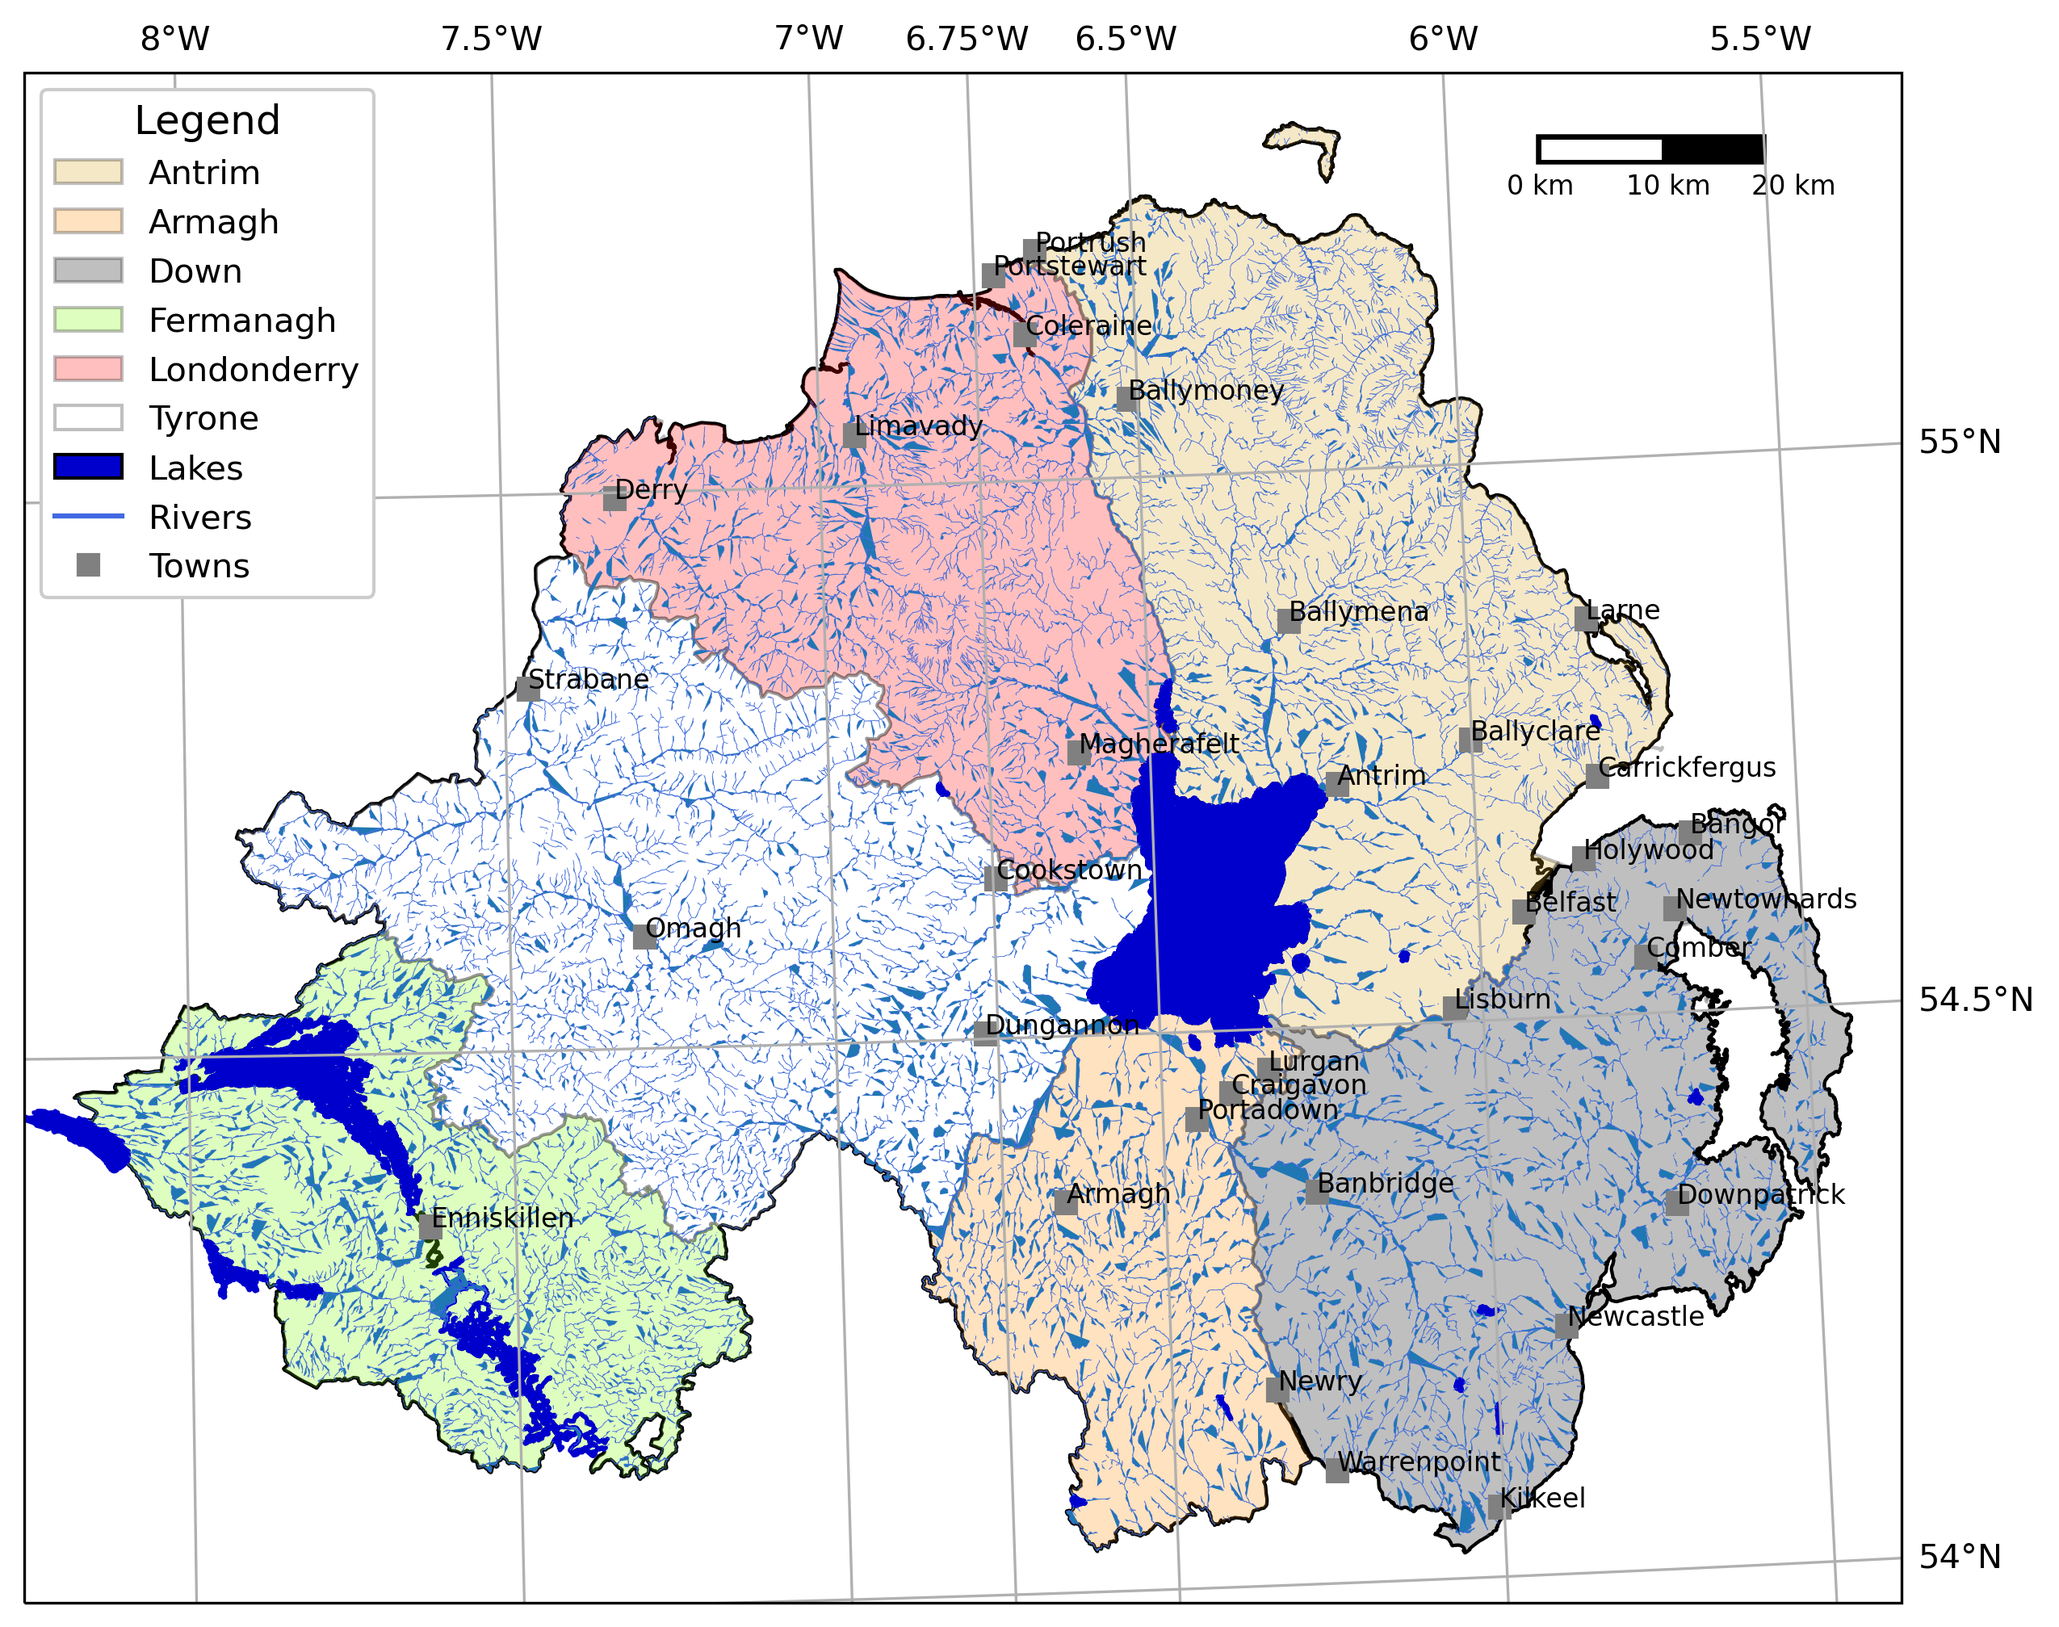
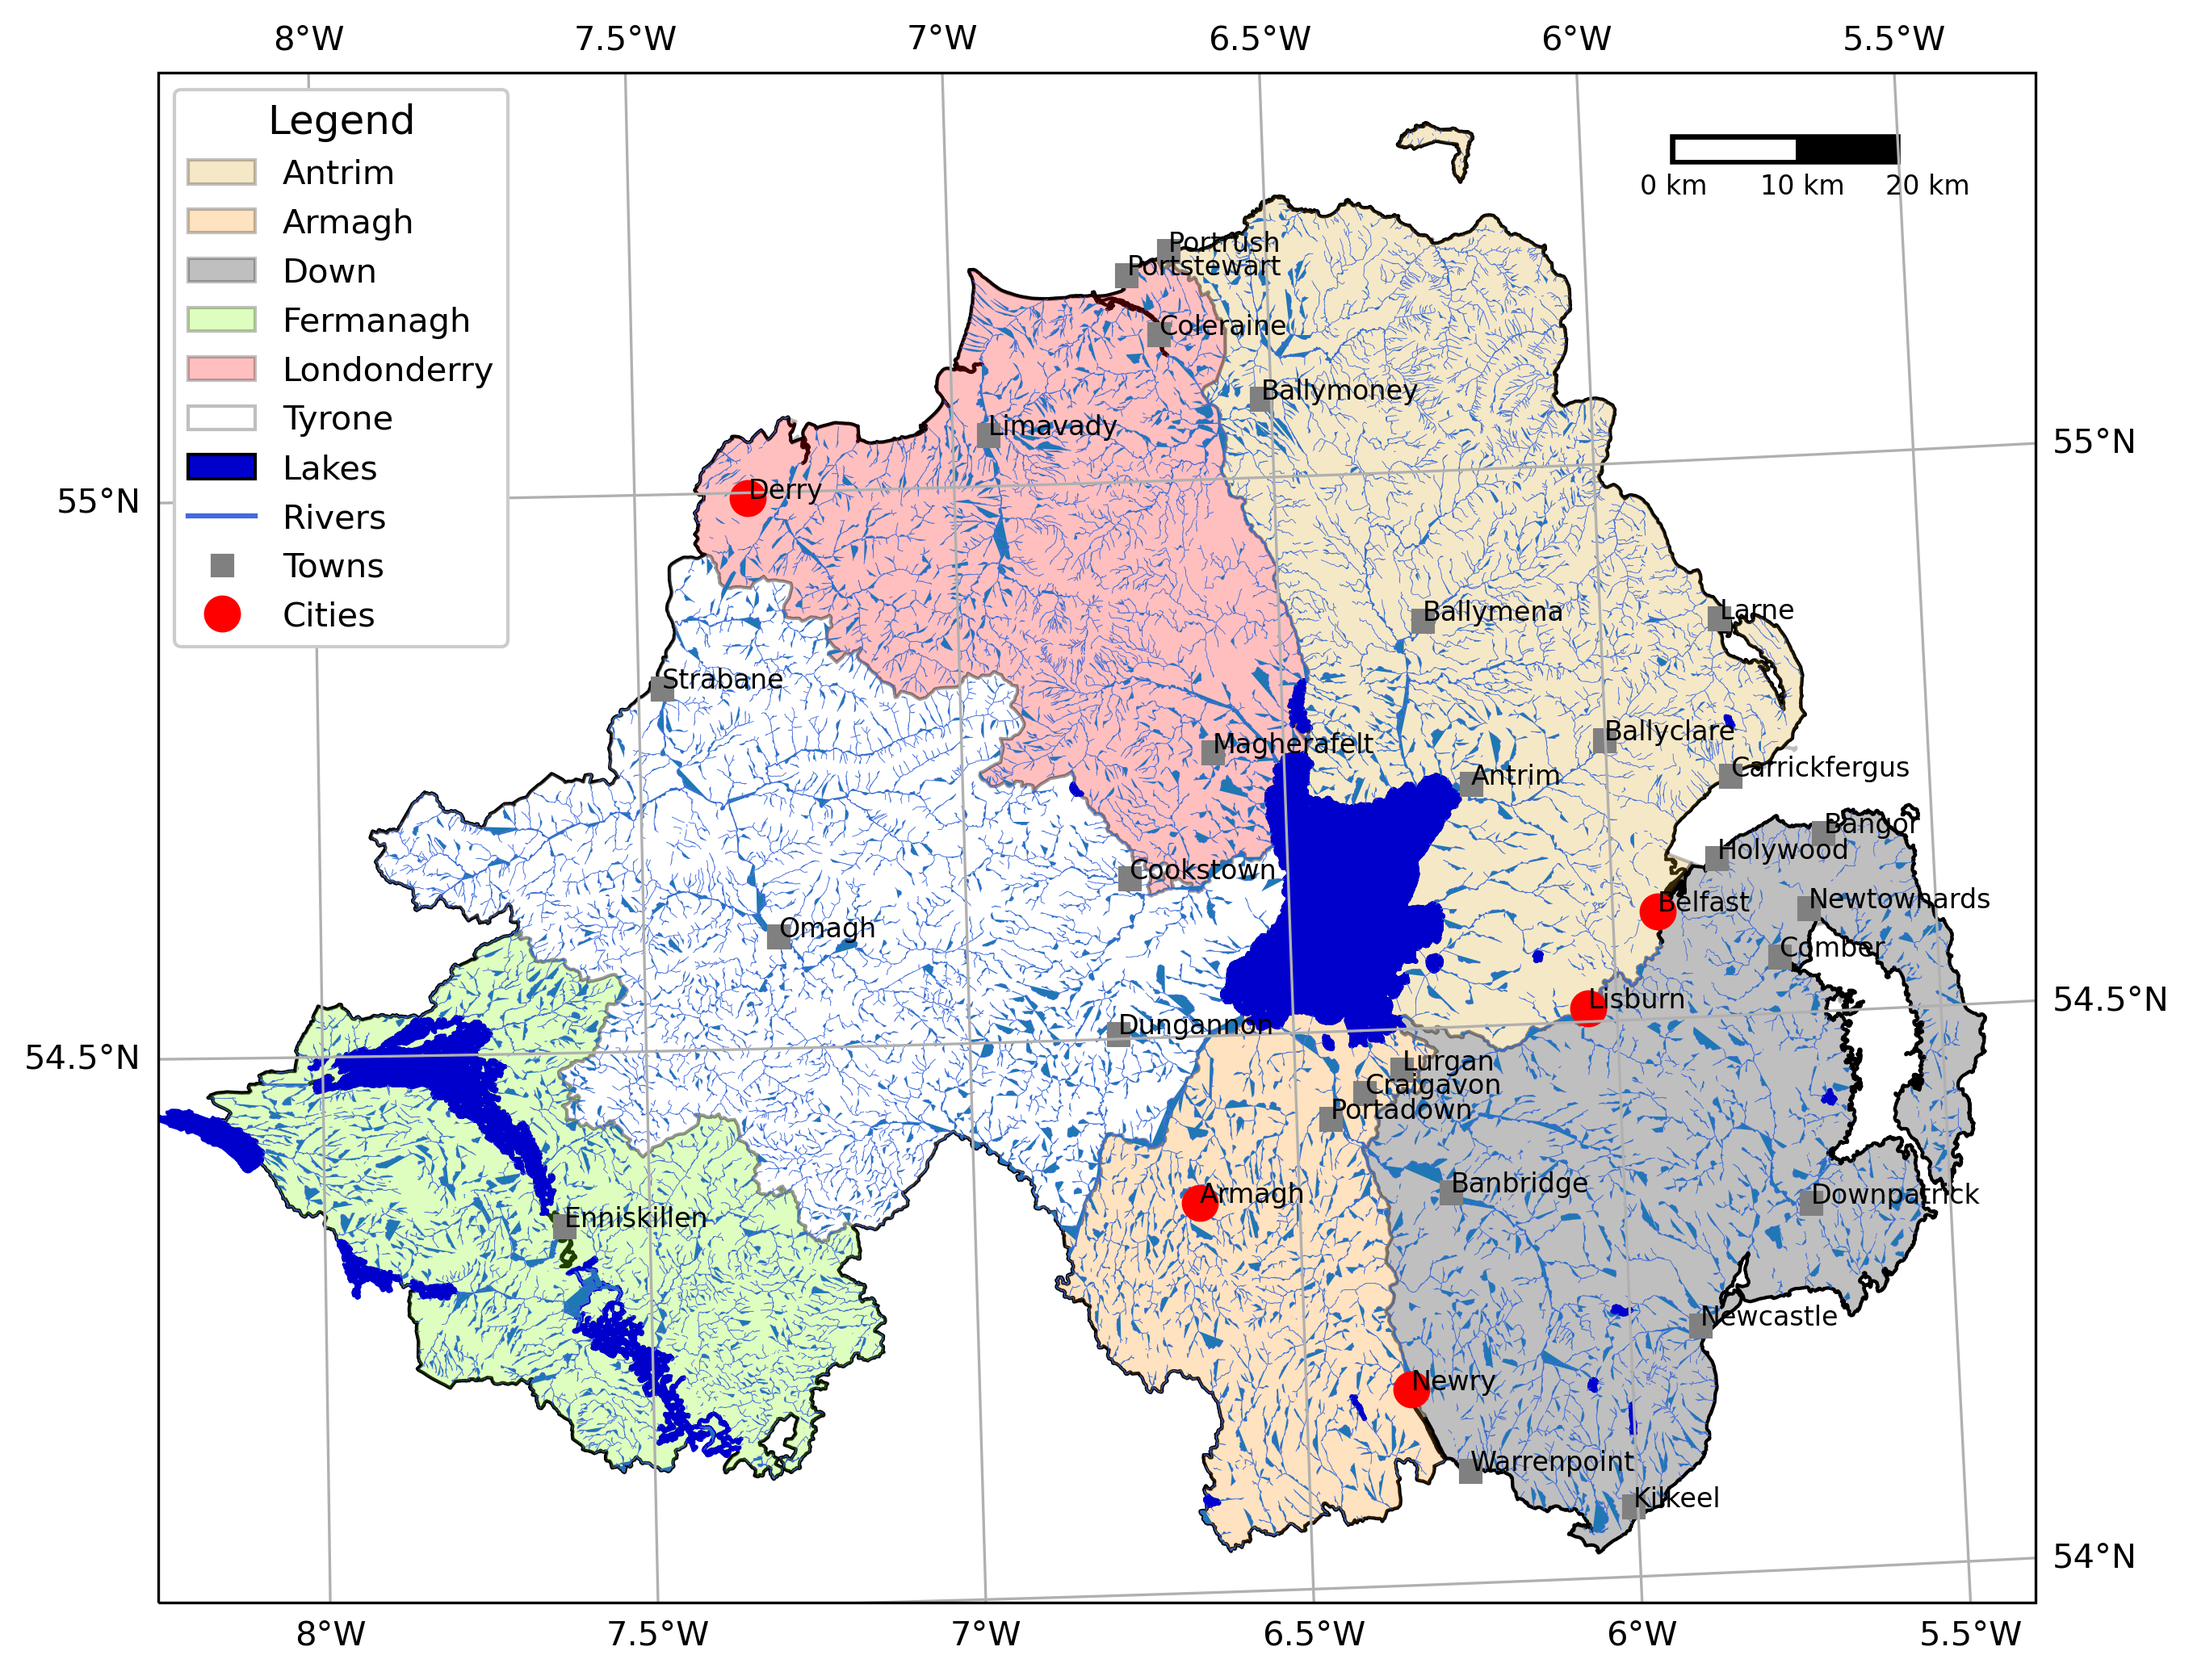
Towns and cities
Updated script to display towns and cities with different symbology

diff --git a/Week2/practical2_script.py b/Week2/practical2_script.py
@@ -43,6 +43,7 @@ water = gpd.read_file(os.path.abspath('data_files/Water.shp'))
 rivers = gpd.read_file(os.path.abspath('data_files/Rivers.shp'))
 counties = gpd.read_file(os.path.abspath('data_files/Counties.shp'))
 
+
 # create a figure of size 10x10 (representing the page size in inches)
 myFig = plt.figure(figsize=(10, 10))
 
@@ -99,7 +100,12 @@ river_feat = ShapelyFeature(rivers['geometry'],  # first argument is the geometr
 ax.add_feature(river_feat)  # add the collection of features to the map
 
 # ShapelyFeature creates a polygon, so for point data we can just use ax.plot()
-town_handle = ax.plot(towns.geometry.x, towns.geometry.y, 's', color='0.5', ms=6, transform=myCRS)
+just_towns = towns.loc[towns['STATUS'] == 'Town']
+just_cities = towns.loc[towns['STATUS'] == 'City']
+town_handle = ax.plot(just_towns.geometry.x, just_towns.geometry.y, 's', color='0.5', ms=6, transform=myCRS)
+city_handle = ax.plot(just_cities.geometry.x, just_cities.geometry.y, 'o', color= 'r', ms=10, transform=myCRS) #displays cities with different symbology
+
+
 
 # generate a list of handles for the county datasets
 county_handles = generate_handles(counties.CountyName.unique(), county_colors, alpha=0.25)
@@ -114,8 +120,8 @@ river_handle = [mlines.Line2D([], [], color='royalblue')]  # have to make this a
 nice_names = [name.title() for name in county_names]
 
 # ax.legend() takes a list of handles and a list of labels corresponding to the objects you want to add to the legend
-handles = county_handles + water_handle + river_handle + town_handle
-labels = nice_names + ['Lakes', 'Rivers', 'Towns']
+handles = county_handles + water_handle + river_handle + town_handle + city_handle
+labels = nice_names + ['Lakes', 'Rivers', 'Towns', 'Cities']
 
 leg = ax.legend(handles, labels, title='Legend', title_fontsize=12,
                 fontsize=10, loc='upper left', frameon=True, framealpha=1)
@@ -136,3 +142,4 @@ scale_bar(ax)
 
 # save the figure as map.png, cropped to the axis (bbox_inches='tight'), and a dpi of 300
 myFig.savefig('map.png', bbox_inches='tight', dpi=300)
+myFig
